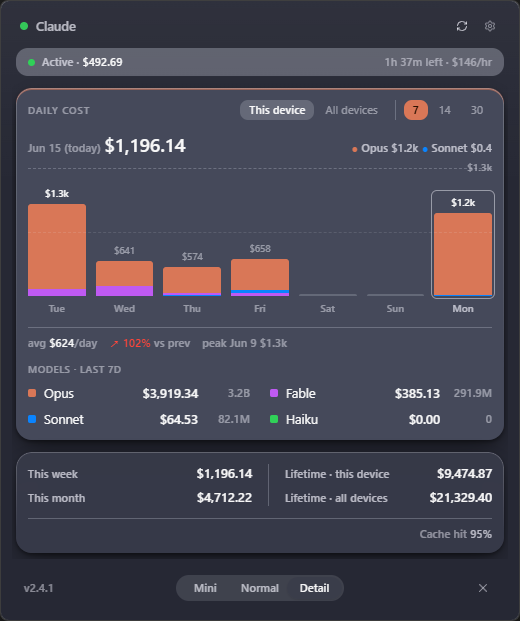
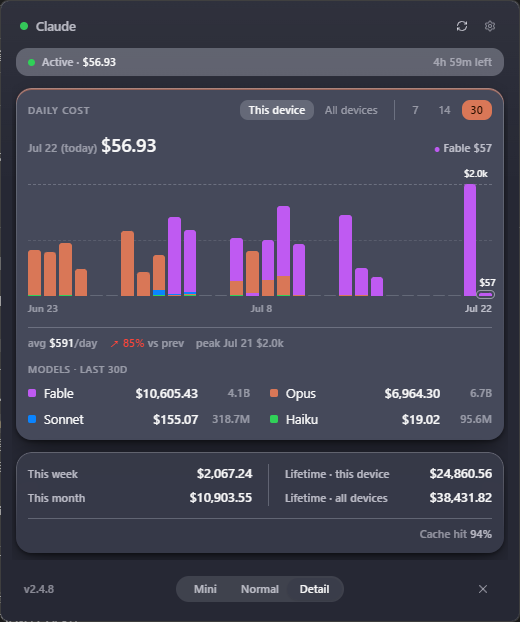
docs(readme): v2.4.8 최신화 — Features 보강 + 스크린샷 3장 교체
Features에 "우클릭 빠른 메뉴" 섹션 신설(사용량 복사·클릭 통과, 드래그
영역 포함)·Normal 불릿에 서버 라벨 스코프 행(Fable 자동 추종) 반영
(en/ko). 스크린샷 mini/normal/detail을 v2.4.1 구판("Sonnet only" 행,
구버전 푸터)에서 v2.4.8 실캡처(Fable 행·현행 레이아웃)로 교체.
guide.png는 별도 창이라 이번 제외.

diff --git a/README.md b/README.md
@@ -20,7 +20,7 @@ A lightweight desktop tool that sits in a corner of your screen and tracks your 
 
 ### Three-mode widget
 - **Mini** (240×112) — Donut + 2-row capsule. Minimum footprint
-- **Normal** (320×360) — Donut hero + weekly capsules. Default
+- **Normal** (320×360) — Donut hero + weekly capsules: All models plus any per-model cap your plan tracks, rendered with the server's own label (e.g. **Fable** on Max — the row re-scopes automatically when Anthropic changes it). Default
 - **Detail** (592×619, minSize 520×520) — dashboard: Active session (current 5h block — spend · time left · spend/hour), a daily cost trend chart (colored by model, 7 / 14 / 30-day ranges, click a bar to pick a date, per-device toggle), a per-model cost breakdown (Opus · Fable · Sonnet · Haiku with token counts), and a totals card (this week / month · per-device & combined lifetime · cache-hit rate)
 
 Switch via footer SegmentedControl or tray menu. Each mode has its own default size + minSize, and any size you drag-adjust is remembered per mode.
@@ -29,6 +29,9 @@ Switch via footer SegmentedControl or tray menu. Each mode has its own default s
 A translucent **ghost arc/dot** overlays the donut and weekly bars to show where usage is expected to land at reset if your current pace holds, and the reset captions add the projected figure. The session estimate blends in a faster recent pace so warnings surface sooner; weekly uses the week-to-date average only, since a work-hours burst shouldn't extrapolate to the rest of the week. Projection pauses for a short while after each reset until there's enough data to extrapolate.
 
 When you're on pace to hit a limit, Mini shows a **⚠ risk badge** (click it for a per-limit breakdown) and a **tray alert** fires in the background. Mini has no header status dot or error banner, so this same badge also surfaces sync failures — token expired, no credentials, network down — as a **red ●** (blue for the calmer "rate limited, retrying" case) instead of the triangle; click it for the error explanation.
+
+### Right-click quick menu
+Right-click anywhere on the widget — including the drag areas, where Windows would normally show the window system menu — for quick actions: **copy a one-line usage summary** (session / weekly / scoped % + today's cost), sync now, switch modes, hide, open the log folder, and **click-through mode**, which makes the widget ignore the mouse so you can work through it (restore via tray right-click → "Disable click-through").
 
 ### Liquid Glass + OS-native vibrancy
 System backdrop composited with OS-level vibrancy — **Win11 Mica/Acrylic** on Windows, **NSVisualEffectView (HudWindow material)** on macOS. The background-opacity slider fades only the background — text, donuts, and gauges stay fully opaque.
